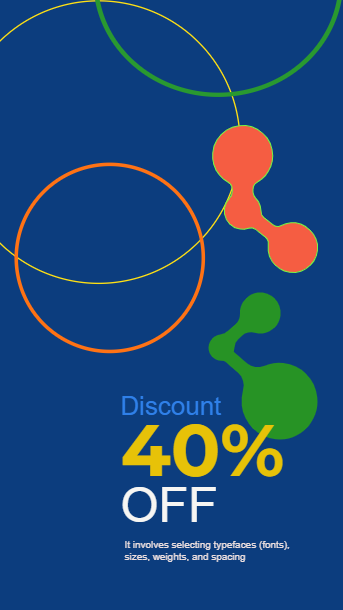
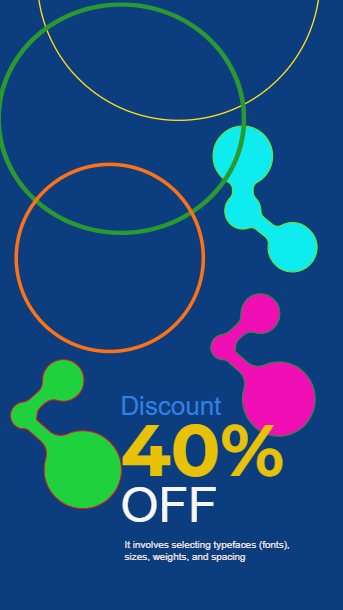
svg color

diff --git a/AnimationProject/wwwroot/js/animations.js b/AnimationProject/wwwroot/js/animations.js
@@ -5580,9 +5580,41 @@ canvas.addEventListener("click", function onCanvasClick(e) {
             );
         }
     }
+    applyImagePaintToUI(activeImage);
 
     HideShowRightPannel?.(selectedType);
 });
+function applyImagePaintToUI(imgHit) {
+    if (!imgHit) return;
+
+    const fillPicker = document.getElementById('favFillcolor');
+    const strokePicker = document.getElementById('favStrockcolor');
+    const noFillBox = document.getElementById('noColorCheck');   // fill no-color
+    const noStrokeBox = document.getElementById('noColorCheck2');  // stroke no-color
+    const swEl = document.getElementById('ddlStrokeWidth');
+
+    // 1) Set checkboxes from statuses
+    if (noFillBox) noFillBox.checked = !!imgHit.fillNoColorStatus;
+    if (noStrokeBox) noStrokeBox.checked = !!imgHit.strokeNoColorStatus;
+
+    // 2) Push colors into the color inputs (only if they are valid hex)
+    const isHex = v => typeof v === 'string' && /^#([0-9a-f]{3}|[0-9a-f]{6})$/i.test(v);
+
+    if (fillPicker) {
+        const fv = imgHit.fillNoColor;
+        if (isHex(fv)) fillPicker.value = fv; // 'none' cannot be set on a color input
+        // keep hidden in sync (store 'none' if status true)
+        $('#hdnfillColor').val(imgHit.fillNoColorStatus ? 'none' : (isHex(fv) ? fv : fillPicker.value));
+    }
+
+    if (strokePicker) {
+        const sv = imgHit.strokeNoColor;
+        if (isHex(sv)) strokePicker.value = sv;
+        $('#hdnStrockColor').val(imgHit.strokeNoColorStatus ? 'none' : (isHex(sv) ? sv : strokePicker.value));
+    }
+
+    if (swEl && imgHit.strokeWidth != null) swEl.value = String(imgHit.strokeWidth);
+}
 
 
 ////KD Need to be Include in project////////
@@ -7044,7 +7076,7 @@ function ChangeFillColor() {
     target.fillNoColor = newFill;
     target.strokeNoColor = newStroke;
     target.strokeWidth = newStrokeWidth;
-
+    target.fillNoColor = document.getElementById('favFillcolor')?.value || "#FFFFFF";
     updateSelectedImageColors(target, newFill, newStroke, newStrokeWidth);
 }
 
@@ -7174,7 +7206,6 @@ function SetNoFillColor() {
         // mirror on object (optional, if you serialize these)
         target.fillNoColorStatus = true;
         target.fillNoColor = "none";
-
         // ✅ pass the target image FIRST
         updateSelectedImageColors(target, "none", strokeColor, strokeWidth);
 
@@ -7232,6 +7263,7 @@ function ChangeStrockColor() {
     // (optional) mirror on object if you serialize these
     target.strokeNoColor = newStroke;
     target.strokeWidth = strokeWidth;
+    target.strokeNoColor = document.getElementById('favStrockcolor')?.value || "#FFFFFF";
 }
 
 //No color option for stroke color 
@@ -7264,6 +7296,8 @@ function SetNoStrokeColor() {
         // mirror on object (optional for serialization)
         target.strokeNoColor = "none";
         target.strokeWidth = strokeWidth;
+        target.strokeNoColorStatus = true;
+
 
     } else {
         // restore stroke color (prefer saved value if present)
@@ -7289,6 +7323,7 @@ function SetNoStrokeColor() {
         // mirror on object (optional)
         target.strokeNoColor = restoreStroke;
         target.strokeWidth = strokeWidth;
+        target.strokeNoColorStatus = false;
     }
 }
 

diff --git a/AnimationProject/wwwroot/js/action.js b/AnimationProject/wwwroot/js/action.js
@@ -552,10 +552,10 @@ function saveCanvasData() {
                 groupId: img.groupId,
                 rotation: img.rotation,
                 zIndex: (typeof img.zIndex === "number") ? img.zIndex : 0,
-                fillNoColorStatus: $("#hdnfillNoColorStatus").val(),
-                strokeNoColorStatus: $("#hdnstrokeNoColorStatus").val(),
-                fillNoColor: $("#hdnfillColor").val(),
-                strokeNoColor: $("#hdnStrockColor").val(),
+                fillNoColorStatus: img.fillNoColorStatus,//$("#hdnfillNoColorStatus").val(),
+                strokeNoColorStatus: img.strokeNoColorStatus,//$("#hdnstrokeNoColorStatus").val(),
+                fillNoColor: img.fillNoColor,//$("#hdnfillColor").val(),
+                strokeNoColor: img.strokeNoColor, //$("#hdnStrockColor").val(),
                 strokeWidth: parseInt(document.getElementById('ddlStrokeWidth')?.value, 10) || 3
             };
         })
